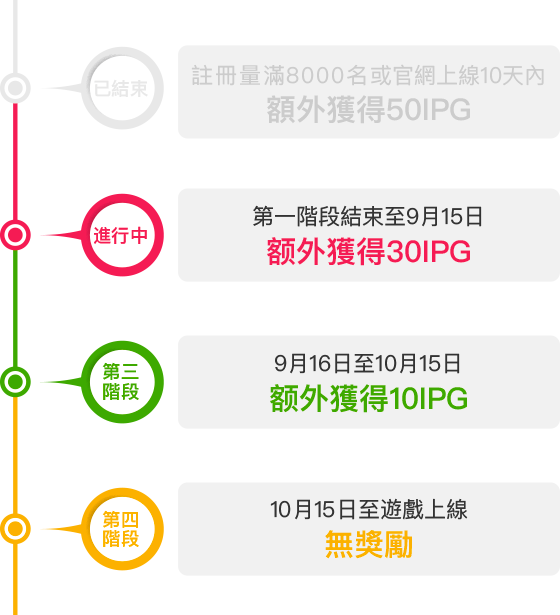
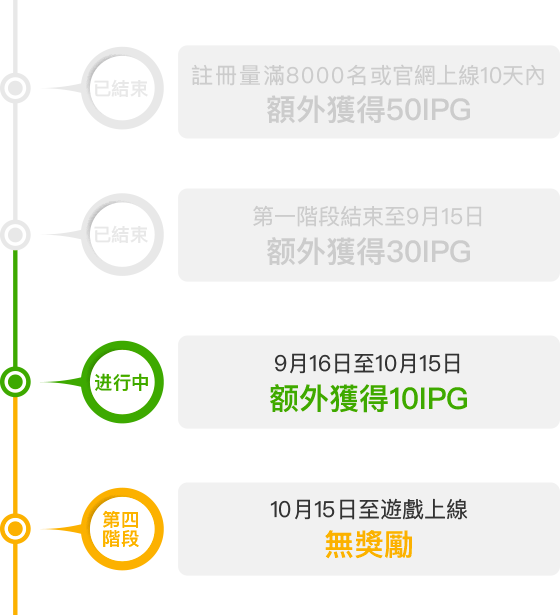
1

diff --git a/index.html b/index.html
@@ -183,7 +183,7 @@
 					</div>
 					<div style="text-align: center;font-size: 0.58rem;color: rgb(255,255,255);margin-top: -1rem;">預約活動</div>
 					<img style="width: 7.35rem;margin-top: 0.7rem;margin-left: 0.71rem;" src="images/img17.png" />
-					<div style="text-align: center;width: 90%;margin-left: 5%;font-size: 0.3rem;font-weight: bold;margin-top: 0.2rem;line-height: 0.5rem;">前8000名額已滿，額外獎勵已發放，請在個人中心查收<br />第二階段注冊正式開啓</div>
+					<div style="text-align: center;width: 90%;margin-left: 5%;font-size: 0.3rem;font-weight: bold;margin-top: 0.2rem;line-height: 0.5rem;">第二阶段已经结束，额外奖励已发放，请在个人中心查收。<br />第三阶段注册正式开启。</div>
 					<img style="width: 7.42rem;margin-left: 0.72rem;margin-top: 0.2rem;" src="images/img24.png" />
 					<div style="width: 7.42rem;height: 7.02rem;border-radius: 0.3rem;margin-top: 0.44rem;margin-left: 0.72rem;background-color: #eaf4ea;">
 						<div style="text-align: center;padding-top: 0.67rem;font-size: 0.51rem;color: rgb(51,51,51);height: 0.45rem;font-weight: bold;">當前預約人數</div>

diff --git a/c/index.html b/c/index.html
@@ -361,7 +361,7 @@
 		<div id="ft" style="width: 90%;border-radius: 0.3rem;background-color: rgb(255,255,255);margin-left: 5%;margin-top: 1rem;">
 
 			<img style="width: 43%;margin: auto;margin-top: 0.4rem;" src="images/img32.png" />
-			<div style="text-align: center;margin-top: 0.2rem;font-size: 0.2rem;font-weight: bold;width: 90%;margin-left: 5%;">前8000名額已滿，額外獎勵已發放，請在個人中心查收,第二階段注冊正式開啓</div>
+			<div style="text-align: center;margin-top: 0.2rem;font-size: 0.2rem;font-weight: bold;width: 90%;margin-left: 5%;">第二阶段已经结束，额外奖励已发放，请在个人中心查收。第三阶段注册正式开启。</div>
 
 			<div style="display: table;margin: auto;">
 				<div style="width: 25%;margin-left: 5%;margin-top: 0.6rem;float: left;">
